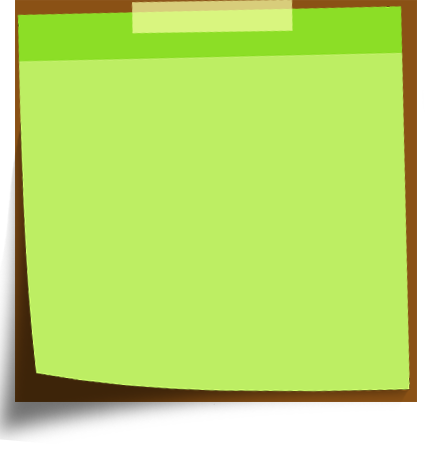
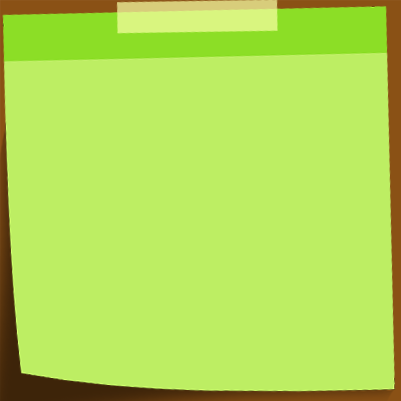
Fixed image in login page and created registration page

Changed region(s): [[0.0, 0.0, 1.0, 1.0], [0.5686, 0.0, 0.5985, 0.0299]]

diff --git a/registrationpage/registrtionpage.js b/registrationpage/registrtionpage.js
@@ -1,0 +1,41 @@
+// This constant is used to avoid spawning the postits on the border of the screen
+const postitDiagonalDimension = 71
+
+window.onload = generatePostits
+window.addEventListener('resize', generatePostits)
+
+/**
+ * Generates 60 random postits on the screen.
+ */
+function generatePostits() {
+    clearPostits()
+    var images = [
+        '../resources/postit-no-writings/dark-green-logo-no-notice-board.png',
+        '../resources/postit-no-writings/light-blue-logo-no-notice-board.png',
+        '../resources/postit-no-writings/light-green-logo-no-notice-board.png',
+        '../resources/postit-no-writings/orange-logo-no-notice-board.png',
+        '../resources/postit-no-writings/pink-logo-no-notice-board.png',
+        '../resources/postit-no-writings/purple-logo-no-notice-board.png',
+        '../resources/postit-no-writings/red-logo-no-notice-board.png',
+        '../resources/postit-no-writings/yellow-logo-no-notice-board.png',
+    ]
+    for (var i = 0; i < 60; i++) {
+        var img = document.createElement('img')
+        img.src = images[Math.floor(Math.random() * images.length)]
+        img.className = 'randomImage';
+        img.style.top = Math.random() * (window.innerHeight - postitDiagonalDimension) + 'px'
+        img.style.left = Math.random() * (window.innerWidth - postitDiagonalDimension) + 'px'
+        img.style.transform = 'rotate(' + Math.random() * 360 + 'deg)'
+        document.body.appendChild(img)
+    }
+}
+
+/**
+ * Call this to clear the postits from the screen.
+ */
+function clearPostits() {
+    var postits = document.getElementsByClassName('randomImage')
+    while (postits.length > 0) {
+        postits[0].parentNode.removeChild(postits[0])
+    }
+}

diff --git a/registrationpage/registrationpage.html b/registrationpage/registrationpage.html
@@ -1,8 +1,8 @@
 <!DOCTYPE html>
 <html>
 <head>
-    <title>Login Page</title>
-    <link rel="stylesheet" href="login.css">
+    <title>Registration Page</title>
+    <link rel="stylesheet" href="registrationpage.css">
 </head>
 <body>
     <div id="content">
@@ -10,10 +10,10 @@
             <h2>Benvenuto in Post-it</h2>
             <input type="text" id="username" name="username" placeholder="Username">
             <input type="password" id="password" name="password" placeholder="Password">
-            <input type="submit" value="Login">
+            <input type="password" id="repeatPassword" name="repeatPassword" placeholder="Repeat Password">
+            <input type="submit" value="Register">
         </form>
-        <button id="registrationBtn" onclick="location.href='registration.html'">Don't have an account? Sign up now</button>
     </div>
-    <script src="login.js"></script>
+    <script src="registrtionpage.js"></script>
 </body>
 </html>

diff --git a/registrationpage/registrationpage.css b/registrationpage/registrationpage.css
@@ -38,7 +38,7 @@ h2 {
     justify-content: center;
     width: 100%;
 }
-#username, #password {
+#username, #password, #repeatPassword {
     width: 100%;
     padding: 5%;
     margin: 0.5rem;
